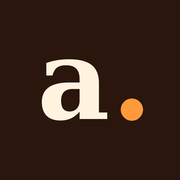
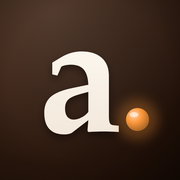
Add files via upload

diff --git a/index.html b/index.html
@@ -999,6 +999,35 @@ body:not([data-screen=library]) .peek,body.adult .peek,body.playing .peek{displa
 .tabs.end{-webkit-mask-image:linear-gradient(to right,transparent,#000 22px);mask-image:linear-gradient(to right,transparent,#000 22px)}
 #status:empty{display:none}
 .bico .flame{color:inherit;margin:0;vertical-align:0}
+
+/* ---------- premium finish ---------- */
+:root{--hl:inset 0 1px 0 color-mix(in srgb,#fff 10%,transparent);--elev:0 1px 1px rgba(0,0,0,.04),0 3px 8px -3px rgba(0,0,0,.10),0 16px 32px -18px rgba(0,0,0,.30);--sheen:linear-gradient(180deg,color-mix(in srgb,#fff 5%,transparent),transparent 55%)}
+body{font-variant-numeric:tabular-nums;-webkit-font-smoothing:antialiased;-moz-osx-font-smoothing:grayscale;text-rendering:optimizeLegibility}
+.card,.tile,.xtile,.grp,.hero,.bk-main,.clcard{border-color:color-mix(in srgb,var(--line) 70%,transparent);box-shadow:var(--elev),var(--hl);background-image:var(--sheen)}
+.card,.tile,.hero{border-radius:20px}
+.xtile,.grp{border-radius:18px}
+.stile{border-radius:12px;box-shadow:0 2px 8px -3px rgba(0,0,0,.18),var(--hl);background-image:var(--sheen)}
+button:not(.icon):not(.primary):not(.linkbtn):not(.pick):not(.medal):not([data-theme]):not([data-ic]):not(#tabbar button){box-shadow:0 1px 2px rgba(0,0,0,.05),var(--hl)}
+.primary{background-image:linear-gradient(180deg,color-mix(in srgb,#fff 16%,transparent),transparent 60%);box-shadow:inset 0 1px 0 color-mix(in srgb,#fff 22%,transparent),0 8px 18px -10px color-mix(in srgb,var(--btn) 80%,#000);font-weight:600;letter-spacing:.01em}
+.primary:active{box-shadow:inset 0 1px 0 color-mix(in srgb,#fff 12%,transparent),0 3px 8px -6px color-mix(in srgb,var(--btn) 80%,#000)}
+button,.btn,.card,.xtile,.stile{transition:transform .14s ease,box-shadow .2s ease,background-color .2s ease}
+.icon{box-shadow:0 1px 3px rgba(0,0,0,.08),var(--hl)}
+.sect,.gt{letter-spacing:.09em;font-size:12px}
+h1,.brand{letter-spacing:-.01em}
+textarea,input[type=text],input[type=date],input[type=search],input[type=password],select{border-radius:14px;box-shadow:inset 0 1px 2px rgba(0,0,0,.06)}
+.bar{background:color-mix(in srgb,var(--line) 85%,transparent);box-shadow:inset 0 1px 1px rgba(0,0,0,.08);border-radius:999px}
+.bar i{border-radius:999px}
+:root:not([data-bar]) .bar i{background-image:linear-gradient(180deg,color-mix(in srgb,#fff 28%,transparent),transparent 70%)}
+#tabbar{background:color-mix(in srgb,var(--surface) 78%,transparent);-webkit-backdrop-filter:saturate(1.6) blur(20px);backdrop-filter:saturate(1.6) blur(20px);border-top:1px solid color-mix(in srgb,var(--line) 60%,transparent);box-shadow:0 -8px 24px -18px rgba(0,0,0,.35)}
+#tabbar button.on{background:color-mix(in srgb,var(--accent) 11%,transparent)}
+dialog{border-radius:26px 26px 0 0;box-shadow:0 -12px 40px -8px rgba(0,0,0,.35);background-image:var(--sheen)}
+dialog:not(.full)::before{content:"";position:sticky;display:block;top:0;left:0;width:40px;height:5px;margin:8px auto -6px;border-radius:3px;background:color-mix(in srgb,var(--muted) 35%,transparent);z-index:2}
+dialog::backdrop{background:rgba(10,8,6,.45);-webkit-backdrop-filter:blur(3px);backdrop-filter:blur(3px)}
+.sheet-head h2{font:700 19px/1.25 Georgia,"Iowan Old Style",serif;letter-spacing:-.005em}
+#toast{box-shadow:0 12px 30px -10px rgba(0,0,0,.45);-webkit-backdrop-filter:blur(12px);backdrop-filter:blur(12px)}
+.cover{box-shadow:0 1px 0 rgba(255,255,255,.15) inset,0 2px 4px rgba(0,0,0,.18),0 10px 20px -10px rgba(0,0,0,.45)}
+dialog:focus{outline:none}
+body.plain .card,body.plain .tile,body.plain .xtile,body.plain .grp{box-shadow:none;background-image:none}
 </style>
 </head>
 <body data-screen="library">
@@ -1487,7 +1516,8 @@ body:not([data-screen=library]) .peek,body.adult .peek,body.playing .peek{displa
       <button type="button" data-ic="owl" aria-label="Night owl"><img src="ico-owl.png" alt="" width="54" height="54"></button>
       <button type="button" data-ic="ghost" aria-label="Ghost"><img src="ico-ghost.png" alt="" width="54" height="54"></button>
     </div>
-    <p class="fine">Pick one, then add Atom to your Home Screen from Safari. Already added? Remove it and add it again. Works on iPhone and iPad.</p>
+    <p class="fine">Pick one, then add Atom to your Home Screen from Safari. Already added? <b>Save a backup first.</b> Removing Atom from your Home Screen erases its books and stats. Then add it again and restore your backup. Works on iPhone and iPad.</p>
+    <div class="row"><button id="icBackup">Save backup</button></div>
   </div>
   <p class="gt">Daily goal</p>
   <div class="grp">
@@ -6429,6 +6459,9 @@ $("#resetStats").onclick = () => { if (!confirm("Reset all reading stats? Your b
 
 $$("dialog").forEach(d => d.addEventListener("click", e => { if (e.target === d && d.id !== "welcomeDlg" && d.id !== "whatsDlg") d.close(); }));
 $$("[data-close]").forEach(b => b.onclick = () => b.closest("dialog").close());
+/* opening a popup shouldn't put a focus ring on its close button */
+$$("dialog").forEach(d => d.tabIndex = -1);
+{ const sm = HTMLDialogElement.prototype.showModal; HTMLDialogElement.prototype.showModal = function () { sm.call(this); const a = document.activeElement; if (a && this.contains(a) && a.matches("[data-close],.icon")) { a.blur(); this.focus({ preventScroll: true }); } }; }
 $("#settingsBtn").addEventListener("click", () => {});
 $("#menuDlg").addEventListener("close", () => { renderLibrary(); });
 
@@ -6833,7 +6866,8 @@ $("#rwBack").onclick = () => { if ($("#xgDlg").open) $("#xgDlg").close(); show("
 $("#goRewards").onclick = () => { $("#setDlg").close(); openRewards(); };
 $("#xgDlg").addEventListener("close", () => { xgCur = null; document.body.classList.remove("xg"); endPreview(); ambStop(); });
 $("#pvFx").onclick = () => { confetti(); chime(); };
-$$("#iconPick button").forEach(b => b.onclick = () => { if (lockedTap("icon", b.dataset.ic)) return; settings.icon = b.dataset.ic; saveSettings(); applyIcon(); syncSettingsUI(); toast("Icon set. Now add Atom to your Home Screen from Safari."); });
+$$("#iconPick button").forEach(b => b.onclick = () => { if (lockedTap("icon", b.dataset.ic)) return; settings.icon = b.dataset.ic; saveSettings(); applyIcon(); syncSettingsUI(); toast("Icon set. Save a backup before you re-add Atom to your Home Screen."); });
+$("#icBackup").onclick = () => saveBackup();
 $("#pivotChk").onchange = e => { settings.pivot = e.target.checked; saveSettings(); applyFont(); };
 applyFont(); applyAccess();
 

diff --git a/sw.js b/sw.js
@@ -1,4 +1,4 @@
-const CACHE = "atom-v97", STATIC = "atom-static-1";
+const CACHE = "atom-v100", STATIC = "atom-static-2";
 const DATA = ["manifest.json", "amb.json", "classlib.json", "storylib.json"];
 const ASSETS = ["icon-192.png", "icon-512.png", "apple-touch-icon.png", "Lexend-Regular.woff2", "Lexend-Bold.woff2", "OpenDyslexic-Regular.woff2", "OpenDyslexic-Bold.woff2", "pdf.min.js", "pdf.worker.min.js", "dictionary.json", "mascot.png",
   "ico-cream.png", "ico-coral.png", "ico-robot.png", "ico-gold.png", "ico-diamond.png", "ico-a-blue.png", "ico-a-green.png", "ico-a-orange.png", "ico-a-purple.png", "ico-a-pink.png", "ico-a-teal.png", "ico-fern.png", "ico-hat.png", "ico-moth.png", "ico-stag.png", "ico-flame.png", "ico-owl.png", "ico-ghost.png"];
